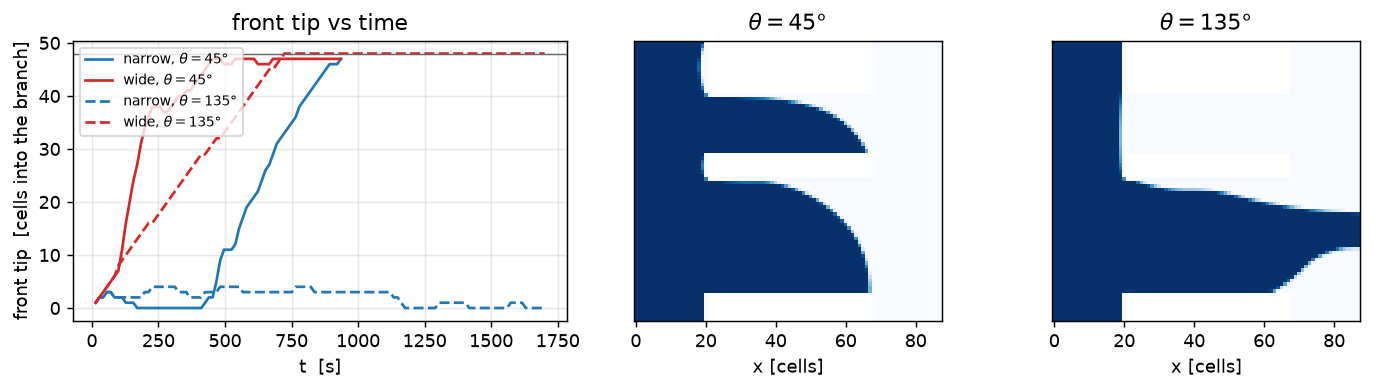
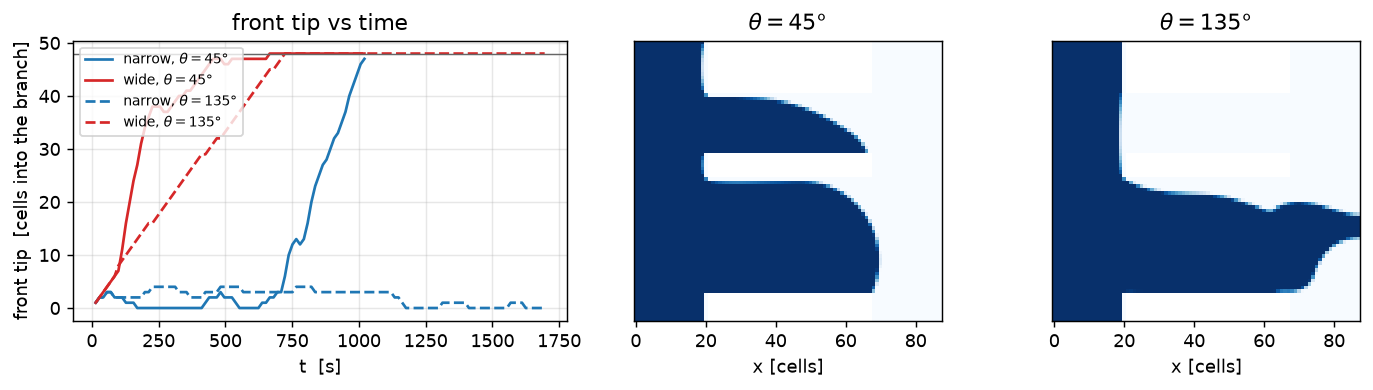
pore-scale-imbibition: the theta=45 micromodel run was UNCONVERGED, and the page said so without noticing
Re-rendered on peclet-cu13 1.1.0 from PyPI. Unlike the other five VoF pages, this
one moved qualitatively — and the reason is not the release, it is that the
committed freeze's theta=45 micromodel run had not converged:

  theta            D      rows    mean   std  deepest  clusters   max|div|
  45 (freeze)  1.477   125/128   10.66  10.49      59        18   3.06e-03
  45 (now)     1.619   128/128    7.12   4.59      17         1   3.70e-06
  90 (now)     1.607   128/128    7.32   4.95      17         1   5.76e-09
  135 (now)    1.636   128/128    7.09   4.61      15         1   1.38e-09

3.06e-03 is three orders worse than either neighbour in its own table and the
worst number anywhere on the page. Re-rendered twice, the new values reproduce
exactly — so this is a converged result replacing an unconverged one, not noise.

The page already contradicted itself and nobody had cross-read it: the prose
asserts "Every angle reaches every one of the 128 transverse rows, as a single
connected cluster" while the committed table said 125/128 and 18 clusters. That
sentence is true of this render and was false of the freeze it shipped with.

Its secondary conclusion rested entirely on the bad row — "the wetting extreme is
the *rougher* ... so what little dependence exists runs BACKWARDS against the
experiment". At convergence the wetting extremes agree to under half a per cent
(4.59 vs 4.61 cells) and the NEUTRAL case is the roughest. Re-rendered against
[…]

diff --git a/ISSUES.md b/ISSUES.md
@@ -130,6 +130,45 @@ the regressed build, where 90 % of cells were on the fallback path, so it may no
 
 ---
 
+## The micromodel's theta=45 case was UNCONVERGED, and its fingering was an artifact of that
+
+- **Status:** RESOLVED by re-rendering on peclet 1.1.0 (2026-09-17); the page's prose is updated to
+  match the converged numbers
+- **Package / area:** flow (VoF + cut-cell pressure solve) / the page's own convergence gate
+- **Found in:** examples/pore-scale-imbibition, during the 1.1.0 gallery re-render
+- **Observed:** the committed freeze's theta=45 micromodel run reported `max|div| 3.06e-03` — three
+  orders worse than the theta=90 (`6.25e-09`) and theta=135 (`1.29e-09`) runs beside it in the same
+  table, and the only row on the page anywhere near that. Its front statistics were correspondingly
+  wild, and were the sole source of the page's secondary conclusion:
+
+  | theta | box dim D | rows | mean | std | deepest | clusters | max\|div\| |
+  |---|---|---|---|---|---|---|---|
+  | 45 (committed freeze) | 1.477 | **125/128** | 10.66 | 10.49 | **59** | **18** | **3.06e-03** |
+  | 45 (1.1.0 re-render)  | 1.619 | 128/128 | 7.12 | 4.59 | 17 | 1 | 3.70e-06 |
+  | 90 (re-render)        | 1.607 | 128/128 | 7.32 | 4.95 | 17 | 1 | 5.76e-09 |
+  | 135 (re-render)       | 1.636 | 128/128 | 7.09 | 4.61 | 15 | 1 | 1.38e-09 |
+
+- **Expected:** all three angles to converge to the same tolerance, and the front measures to be
+  comparable unless wettability genuinely changes the pattern.
+- **Why it mattered:** the page's own text already contradicted its own table. The prose asserted
+  "Every angle reaches every one of the 128 transverse rows, as a single connected cluster" while
+  the committed theta=45 row said 125/128 and 18 clusters. That sentence is true of the re-render
+  and was false of the freeze it shipped with — nobody had cross-read the two.
+- **Consequence for the prose:** the claim that "the wetting extreme is the *rougher* ... so what
+  little dependence exists runs **backwards** against the experiment" rested entirely on that
+  unconverged row. At convergence the two wetting extremes agree to well under a per cent in front
+  roughness (4.59 vs 4.61 cells) and the *neutral* case is marginally the roughest. The page's
+  MAIN conclusion — the published wettability trend is not reproduced — is unaffected and in fact
+  cleaner: the spread is now a flat non-result rather than one carried by an outlier. The bullet,
+  the figure caption and the conclusion paragraph are updated accordingly.
+- **Notes:** the rendered inline expression made this self-evident once re-executed — the sentence
+  came out as "the *rougher* of the two, by \-0 %". An inline `{python}` value that contradicts the
+  sentence around it is a good tripwire, and this page had one only by luck. Worth considering
+  whether pages that make a directional claim should assert it in code (and fail) rather than
+  interpolate a number into prose that assumes the sign.
+
+---
+
 ## `max_open_divergence()` returns exactly 0 without geometry — so `advect_vof`'s divergence guard is silently inert on a bare box
 - **Status:** RESOLVED (flow WO-R2, `advect_vof` now throws without a cut-cell pressure operator and uses `max_open_divergence_projected()`; 2026-09-03)
 - **Package / area:** flow (VoF transport / cut-cell diagnostics)
